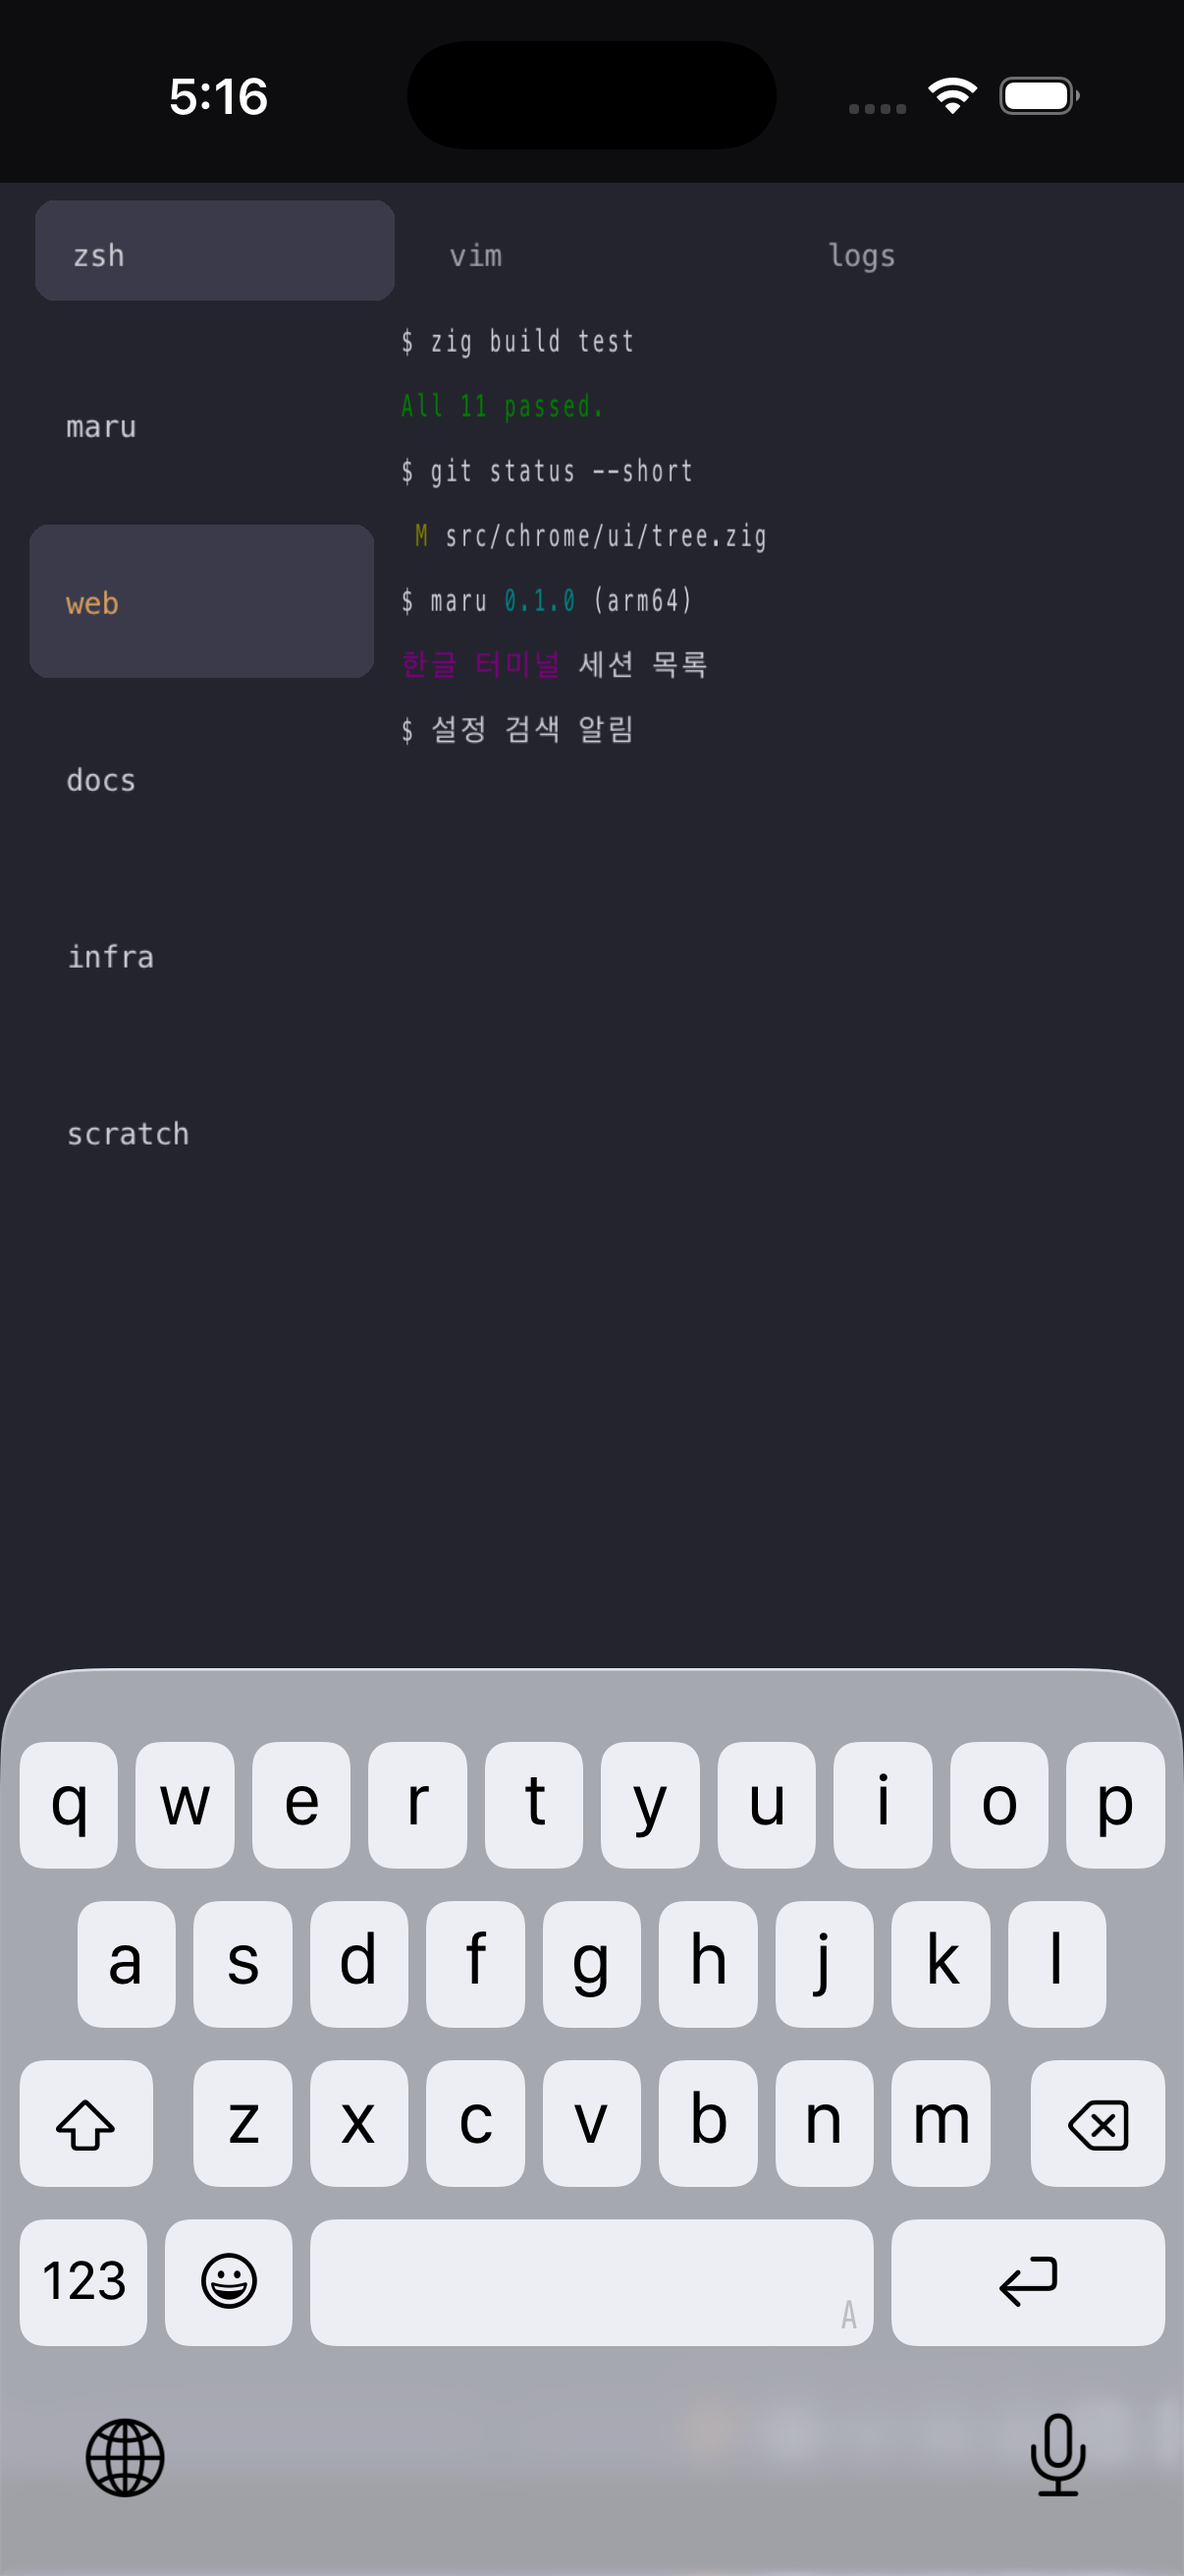
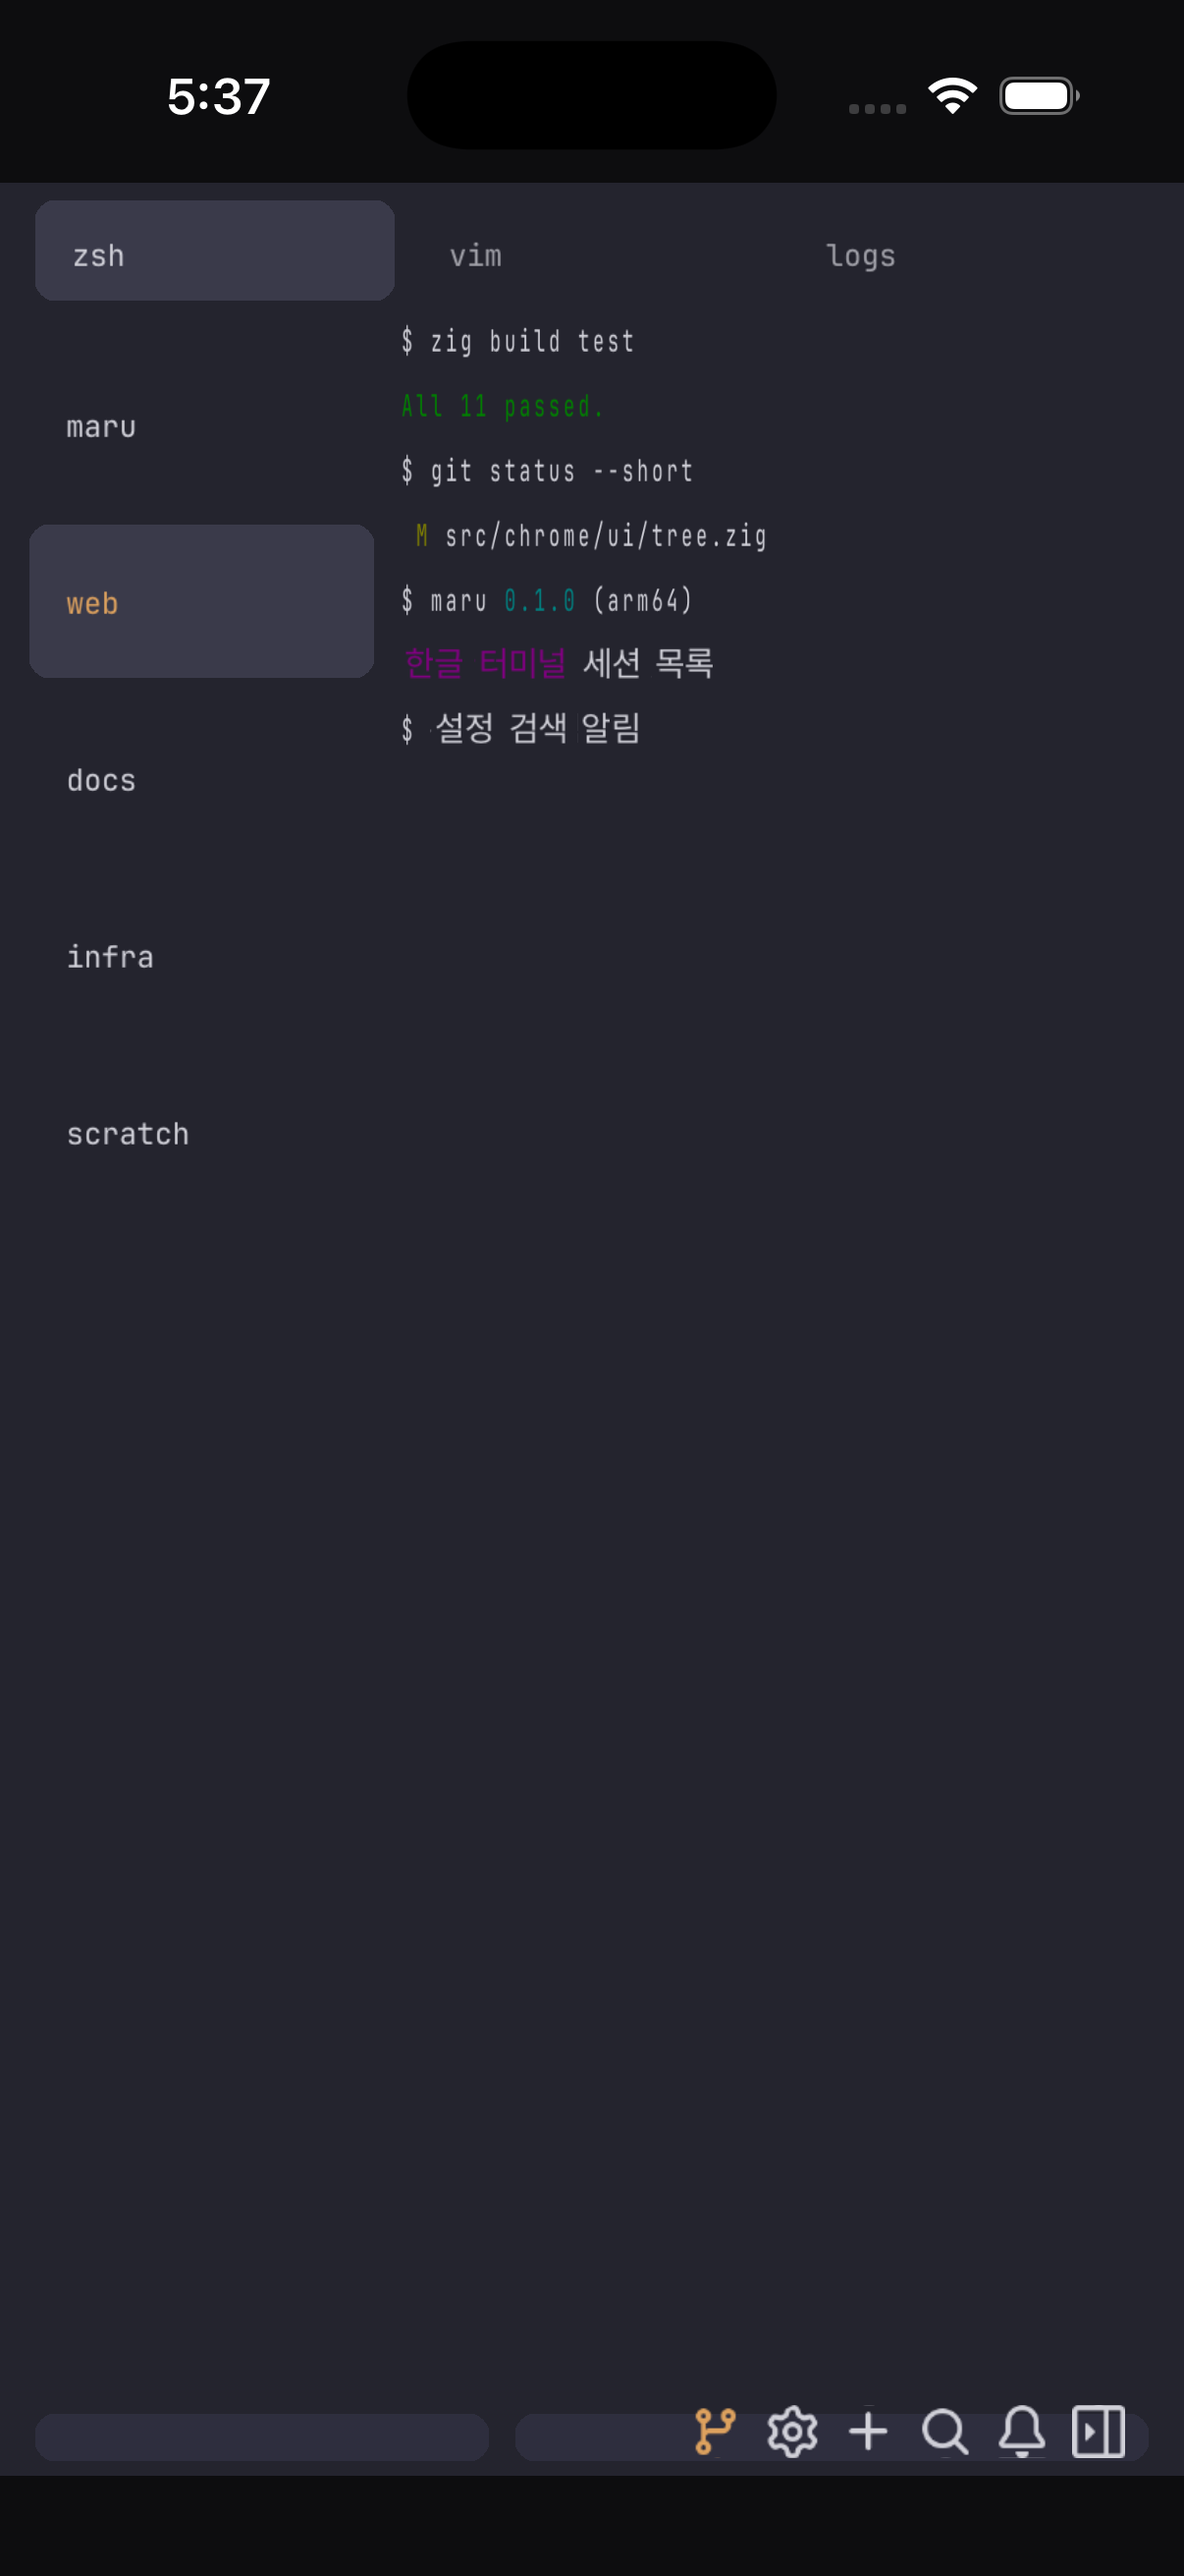
feat(mobile): 동봉 폰트(Jetendard)로 통일하고 남는 픽셀 차이를 잰다
시스템 폰트(Menlo·AppleSDGothicNeo)를 쓰고 있었다. **저장소에 이미 OFL 폰트가 동봉돼
있는 줄 몰랐다** — `assets/fonts/Jetendard` 는 영문과 한글을 한 파일에 담아 폴백이 아예
필요 없고, 시스템 폰트와 달리 라이선스상 두 플랫폼에 그대로 옮길 수 있다.

iOS 는 번들 리소스로, Android 는 push 한 **같은 ttf** 를 읽는다. 그러면 남는 것은 순수한
래스터라이저 차이(CoreText/CoreGraphics vs Skia)뿐이라 그 크기를 쟀다.

  - 무게중심 0.5px 초과로 밀린 셀 **0/64**(최대 0.28px) — 글자 위치·크기가 같다.
  - 평균 |Δ| **17.5/255**(6.9%), 눈에 띄는 차이(|Δ|>32)는 ink 의 10.4%.
  - 3배 증폭한 대조 그림에서도 차이가 **글자 테두리에만** 있고 획 안쪽은 검다.

**판단**: 폰트 동봉만으로 실질적 문제(플랫폼마다 한글 폴백이 갈리던 것)가 사라진다.
남는 것은 안티에일리어싱뿐이라, 래스터까지 자체 구현할 이유는 **골든 픽셀 테스트를 OS
넘어 공유하고 싶을 때**로 좁혀진다 — 화면 품질 때문이 아니다.

부수적으로 iOS 소프트 키보드가 화면 절반을 가리던 것을 빈 `inputView` 로 감췄다. 입력
대상 자격은 그대로라 하드웨어 키는 계속 `insertText:` 로 온다.

diff --git a/tools/mobile-poc/atlas_diff.py b/tools/mobile-poc/atlas_diff.py
@@ -1,0 +1,97 @@
+#!/usr/bin/env python3
+"""두 플랫폼이 **같은 폰트로** 구운 글리프 아틀라스의 픽셀 차이를 잰다.
+
+번들 폰트(Jetendard)를 쓰면 글자 모양·advance 는 같아진다. 그래도 남는 차이는
+**래스터라이저 차이**뿐이다 — iOS 는 CoreText/CoreGraphics, Android 는 Skia 다.
+그 크기를 알아야 "래스터까지 우리가 가져와야 하는가"를 판단할 수 있다.
+
+판정에 쓰는 값:
+  - ink 픽셀(둘 중 하나라도 0 이 아닌 칸)만 센다. 배경이 대부분이라 전체 평균은 의미가 없다.
+  - |Δ|>32 는 **눈에 보이는** 차이로 친다(8bit coverage 의 12.5%).
+  - 글리프가 통째로 밀렸는지 보려면 셀별 무게중심 차이를 본다 — 그건 폰트가 다를 때 생기고,
+    같은 폰트라면 0 에 가까워야 한다.
+
+사용: python3 tools/mobile-poc/atlas_diff.py out/atlas-ios.gray out/atlas-android.gray 384 128 24 32
+"""
+import sys
+
+
+def main() -> int:
+    if len(sys.argv) < 7:
+        print(__doc__)
+        return 2
+    a_path, b_path = sys.argv[1], sys.argv[2]
+    W, H, CW, CH = (int(x) for x in sys.argv[3:7])
+    a = open(a_path, "rb").read()
+    b = open(b_path, "rb").read()
+    if len(a) != W * H or len(b) != W * H:
+        print(f"크기 불일치: {len(a)} vs {len(b)} (기대 {W * H})")
+        return 1
+
+    ink = 0
+    diff_any = 0
+    diff_visible = 0
+    total_abs = 0
+    max_abs = 0
+    a_ink = 0
+    b_ink = 0
+    for i in range(W * H):
+        av, bv = a[i], b[i]
+        if av:
+            a_ink += 1
+        if bv:
+            b_ink += 1
+        if av == 0 and bv == 0:
+            continue
+        ink += 1
+        d = abs(av - bv)
+        if d:
+            diff_any += 1
+            total_abs += d
+            max_abs = max(max_abs, d)
+            if d > 32:
+                diff_visible += 1
+
+    print(f"아틀라스 {W}x{H}, 셀 {CW}x{CH}")
+    print(f"ink 픽셀      A={a_ink}  B={b_ink}  합집합={ink}")
+    print(f"값이 다른 칸  {diff_any} ({diff_any / ink * 100:.1f}% of ink)")
+    print(f"눈에 띄는 차이(|Δ|>32)  {diff_visible} ({diff_visible / ink * 100:.1f}% of ink)")
+    print(f"평균 |Δ| (ink 기준)  {total_abs / ink:.1f} / 255")
+    print(f"최대 |Δ|  {max_abs}")
+
+    # 셀별 무게중심 — 글리프가 통째로 밀렸다면 여기서 드러난다(같은 폰트면 ~0).
+    cols, rows = W // CW, H // CH
+    worst = (0.0, -1, -1)
+    shifted = 0
+    for r in range(rows):
+        for c in range(cols):
+            sa = sb = 0
+            ax = ay = bx = by = 0.0
+            for y in range(r * CH, (r + 1) * CH):
+                base = y * W
+                for x in range(c * CW, (c + 1) * CW):
+                    av, bv = a[base + x], b[base + x]
+                    if av:
+                        sa += av
+                        ax += x * av
+                        ay += y * av
+                    if bv:
+                        sb += bv
+                        bx += x * bv
+                        by += y * bv
+            if sa == 0 or sb == 0:
+                continue
+            dx = ax / sa - bx / sb
+            dy = ay / sa - by / sb
+            d = (dx * dx + dy * dy) ** 0.5
+            if d > 0.5:
+                shifted += 1
+            if d > worst[0]:
+                worst = (d, c, r)
+    print(f"무게중심 0.5px 초과로 밀린 셀  {shifted}/{cols * rows}")
+    print(f"최대 밀림  {worst[0]:.2f}px (셀 {worst[1]},{worst[2]})")
+    return 0
+
+
+if __name__ == "__main__":
+    raise SystemExit(main())

diff --git a/tools/mobile-poc/chrome_app.m b/tools/mobile-poc/chrome_app.m
@@ -113,8 +113,27 @@ typedef struct { float rect_px[4]; float color[4]; float misc[4]; float cell[4];
     CGColorSpaceRef cs = CGColorSpaceCreateDeviceGray();
     CGContextRef ctx = CGBitmapContextCreate(gray, W, H, 8, W, cs, kCGImageAlphaNone);
     CGContextSetGrayFillColor(ctx, 1.0, 1.0);
-    CTFontRef base = CTFontCreateWithName(CFSTR("Menlo"), 22, NULL);
-    CTFontRef korean = CTFontCreateWithName(CFSTR("AppleSDGothicNeo-Regular"), 22, NULL);
+
+    // **번들한 폰트를 쓴다.** maru 는 이미 `assets/fonts/` 에 OFL 폰트를 동봉하고 있고,
+    // 그중 Jetendard 는 영문과 한글을 한 파일에 담는다 — 폴백이 아예 필요 없다.
+    // 시스템 폰트(Menlo·AppleSDGothicNeo)를 쓰면 플랫폼마다 글자 모양이 갈리는데,
+    // 그 차이는 라이선스 때문에 옮길 수도 없는 종류다.
+    CTFontRef base = NULL;
+    NSString *fontPath = [NSBundle.mainBundle pathForResource:@"Jetendard-Regular" ofType:@"ttf"];
+    if (fontPath) {
+        CFArrayRef descs = CTFontManagerCreateFontDescriptorsFromURL(
+            (__bridge CFURLRef)[NSURL fileURLWithPath:fontPath]);
+        if (descs && CFArrayGetCount(descs) > 0) {
+            base = CTFontCreateWithFontDescriptor(
+                (CTFontDescriptorRef)CFArrayGetValueAtIndex(descs, 0), 22, NULL);
+        }
+        if (descs) CFRelease(descs);
+    }
+    if (!base) {  // 번들 폰트가 없으면 예전 경로로 — 조용히 다른 글꼴이 되지 않게 로그를 남긴다
+        NSLog(@"MARU_CHROME bundled_font_missing fallback=Menlo");
+        base = CTFontCreateWithName(CFSTR("Menlo"), 22, NULL);
+    }
+    CTFontRef korean = CFRetain(base);
 
     maru_atlas_geometry(CW, CH);
     for (NSUInteger i = 0; i < n; i++) {
@@ -143,8 +162,13 @@ typedef struct { float rect_px[4]; float color[4]; float misc[4]; float cell[4];
                                                            width:W height:H mipmapped:NO];
     _glyphTex = [_dev newTextureWithDescriptor:td];
     [_glyphTex replaceRegion:MTLRegionMake2D(0, 0, W, H) mipmapLevel:0 withBytes:gray bytesPerRow:W];
+    // 래스터 결과를 그대로 남긴다 — 두 플랫폼의 픽셀 차이를 재려면 원본이 필요하다.
+    NSString *dump = [NSSearchPathForDirectoriesInDomains(NSDocumentDirectory, NSUserDomainMask, YES)[0]
+                      stringByAppendingPathComponent:@"atlas_ondevice.gray"];
+    [[NSData dataWithBytes:gray length:W * H] writeToFile:dump atomically:YES];
     free(gray);
-    NSLog(@"MARU_CHROME atlas_ondevice=%ux%u glyphs=%lu source=CoreText", W, H, (unsigned long)n);
+    NSLog(@"MARU_CHROME atlas_ondevice=%ux%u glyphs=%lu source=CoreText font=%@",
+          W, H, (unsigned long)n, fontPath ? @"Jetendard" : @"Menlo");
     return YES;
 }
 
@@ -201,6 +225,9 @@ typedef struct { float rect_px[4]; float color[4]; float misc[4]; float cell[4];
 // **입력**: 하드웨어 키보드가 이 뷰로 온다. 받은 문자를 바이트로 코어에 먹인다 —
 // 코어는 PTY 에서 온 것과 구분하지 않는다(Android 쪽과 같은 계약).
 - (BOOL)canBecomeFirstResponder { return YES; }
+// 소프트 키보드는 이 PoC 에서 화면 절반을 가린다. 빈 `inputView` 를 주면 키보드는 안 뜨고
+// **입력 대상 자격은 그대로** 남는다(하드웨어 키는 계속 `insertText:` 로 온다).
+- (UIView *)inputView { return [[UIView alloc] initWithFrame:CGRectZero]; }
 - (BOOL)hasText { return YES; }
 - (void)deleteBackward {
     char bs = 0x7F;

diff --git a/tools/mobile-poc/chrome_android_app.c b/tools/mobile-poc/chrome_android_app.c
@@ -139,12 +139,24 @@ static int rasterizeAtlasOnDevice(struct android_app *app, uint8_t **out, uint32
         (*env)->GetMethodID(env, pCls, "setTextSize", "(F)V"), (jfloat)22.0f);
     (*env)->CallVoidMethod(env, paint,
         (*env)->GetMethodID(env, pCls, "setColor", "(I)V"), (jint)0xFFFFFFFF);
+    // **번들한 폰트를 쓴다.** maru 가 이미 `assets/fonts/` 에 OFL 폰트를 동봉하고 있고,
+    // Jetendard 는 영문과 한글을 한 파일에 담아 폴백이 필요 없다 — iOS 와 **같은 파일**을
+    // 읽으므로 글자 모양과 advance 가 플랫폼을 넘어 같아진다.
     jclass tfCls = (*env)->FindClass(env, "android/graphics/Typeface");
-    jobject mono = (*env)->GetStaticObjectField(env, tfCls,
-        (*env)->GetStaticFieldID(env, tfCls, "MONOSPACE", "Landroid/graphics/Typeface;"));
+    jobject face = NULL;
+    jstring fpath = (*env)->NewStringUTF(env, "/data/local/tmp/Jetendard-Regular.ttf");
+    jmethodID mFromFile = (*env)->GetStaticMethodID(env, tfCls, "createFromFile",
+        "(Ljava/lang/String;)Landroid/graphics/Typeface;");
+    face = (*env)->CallStaticObjectMethod(env, tfCls, mFromFile, fpath);
+    if ((*env)->ExceptionCheck(env)) { (*env)->ExceptionClear(env); face = NULL; }
+    if (!face) {  // 조용히 다른 글꼴이 되지 않게 남긴다
+        LOGI("bundled_font_missing fallback=MONOSPACE");
+        face = (*env)->GetStaticObjectField(env, tfCls,
+            (*env)->GetStaticFieldID(env, tfCls, "MONOSPACE", "Landroid/graphics/Typeface;"));
+    }
     (*env)->CallObjectMethod(env, paint,
         (*env)->GetMethodID(env, pCls, "setTypeface",
-                            "(Landroid/graphics/Typeface;)Landroid/graphics/Typeface;"), mono);
+                            "(Landroid/graphics/Typeface;)Landroid/graphics/Typeface;"), face);
 
     jmethodID mDraw = (*env)->GetMethodID(env, cvCls, "drawText",
         "(Ljava/lang/String;FFLandroid/graphics/Paint;)V");
@@ -175,6 +187,14 @@ static int rasterizeAtlasOnDevice(struct android_app *app, uint8_t **out, uint32
         memcpy(buf + y * W, (uint8_t *)pixels + y * info.stride, W);
     AndroidBitmap_unlockPixels(env, bmp);
     (*vm)->DetachCurrentThread(vm);
+
+    // 래스터 결과를 그대로 남긴다 — 두 플랫폼의 픽셀 차이를 재려면 원본이 필요하다.
+    // 앱은 /data/local/tmp 에 못 쓴다(샌드박스) — 자기 내부 경로에 남기고 run-as 로 꺼낸다.
+    char dump_path[512];
+    snprintf(dump_path, sizeof dump_path, "%s/atlas_ondevice.gray",
+             app->activity->internalDataPath ? app->activity->internalDataPath : "/data/local/tmp");
+    FILE *df = fopen(dump_path, "wb");
+    if (df) { fwrite(buf, 1, W * H, df); fclose(df); LOGI("atlas_dump=%s", dump_path); }
 
     *out = buf; *ow = W; *oh = H;
     g.atlas_cols = COLS;
